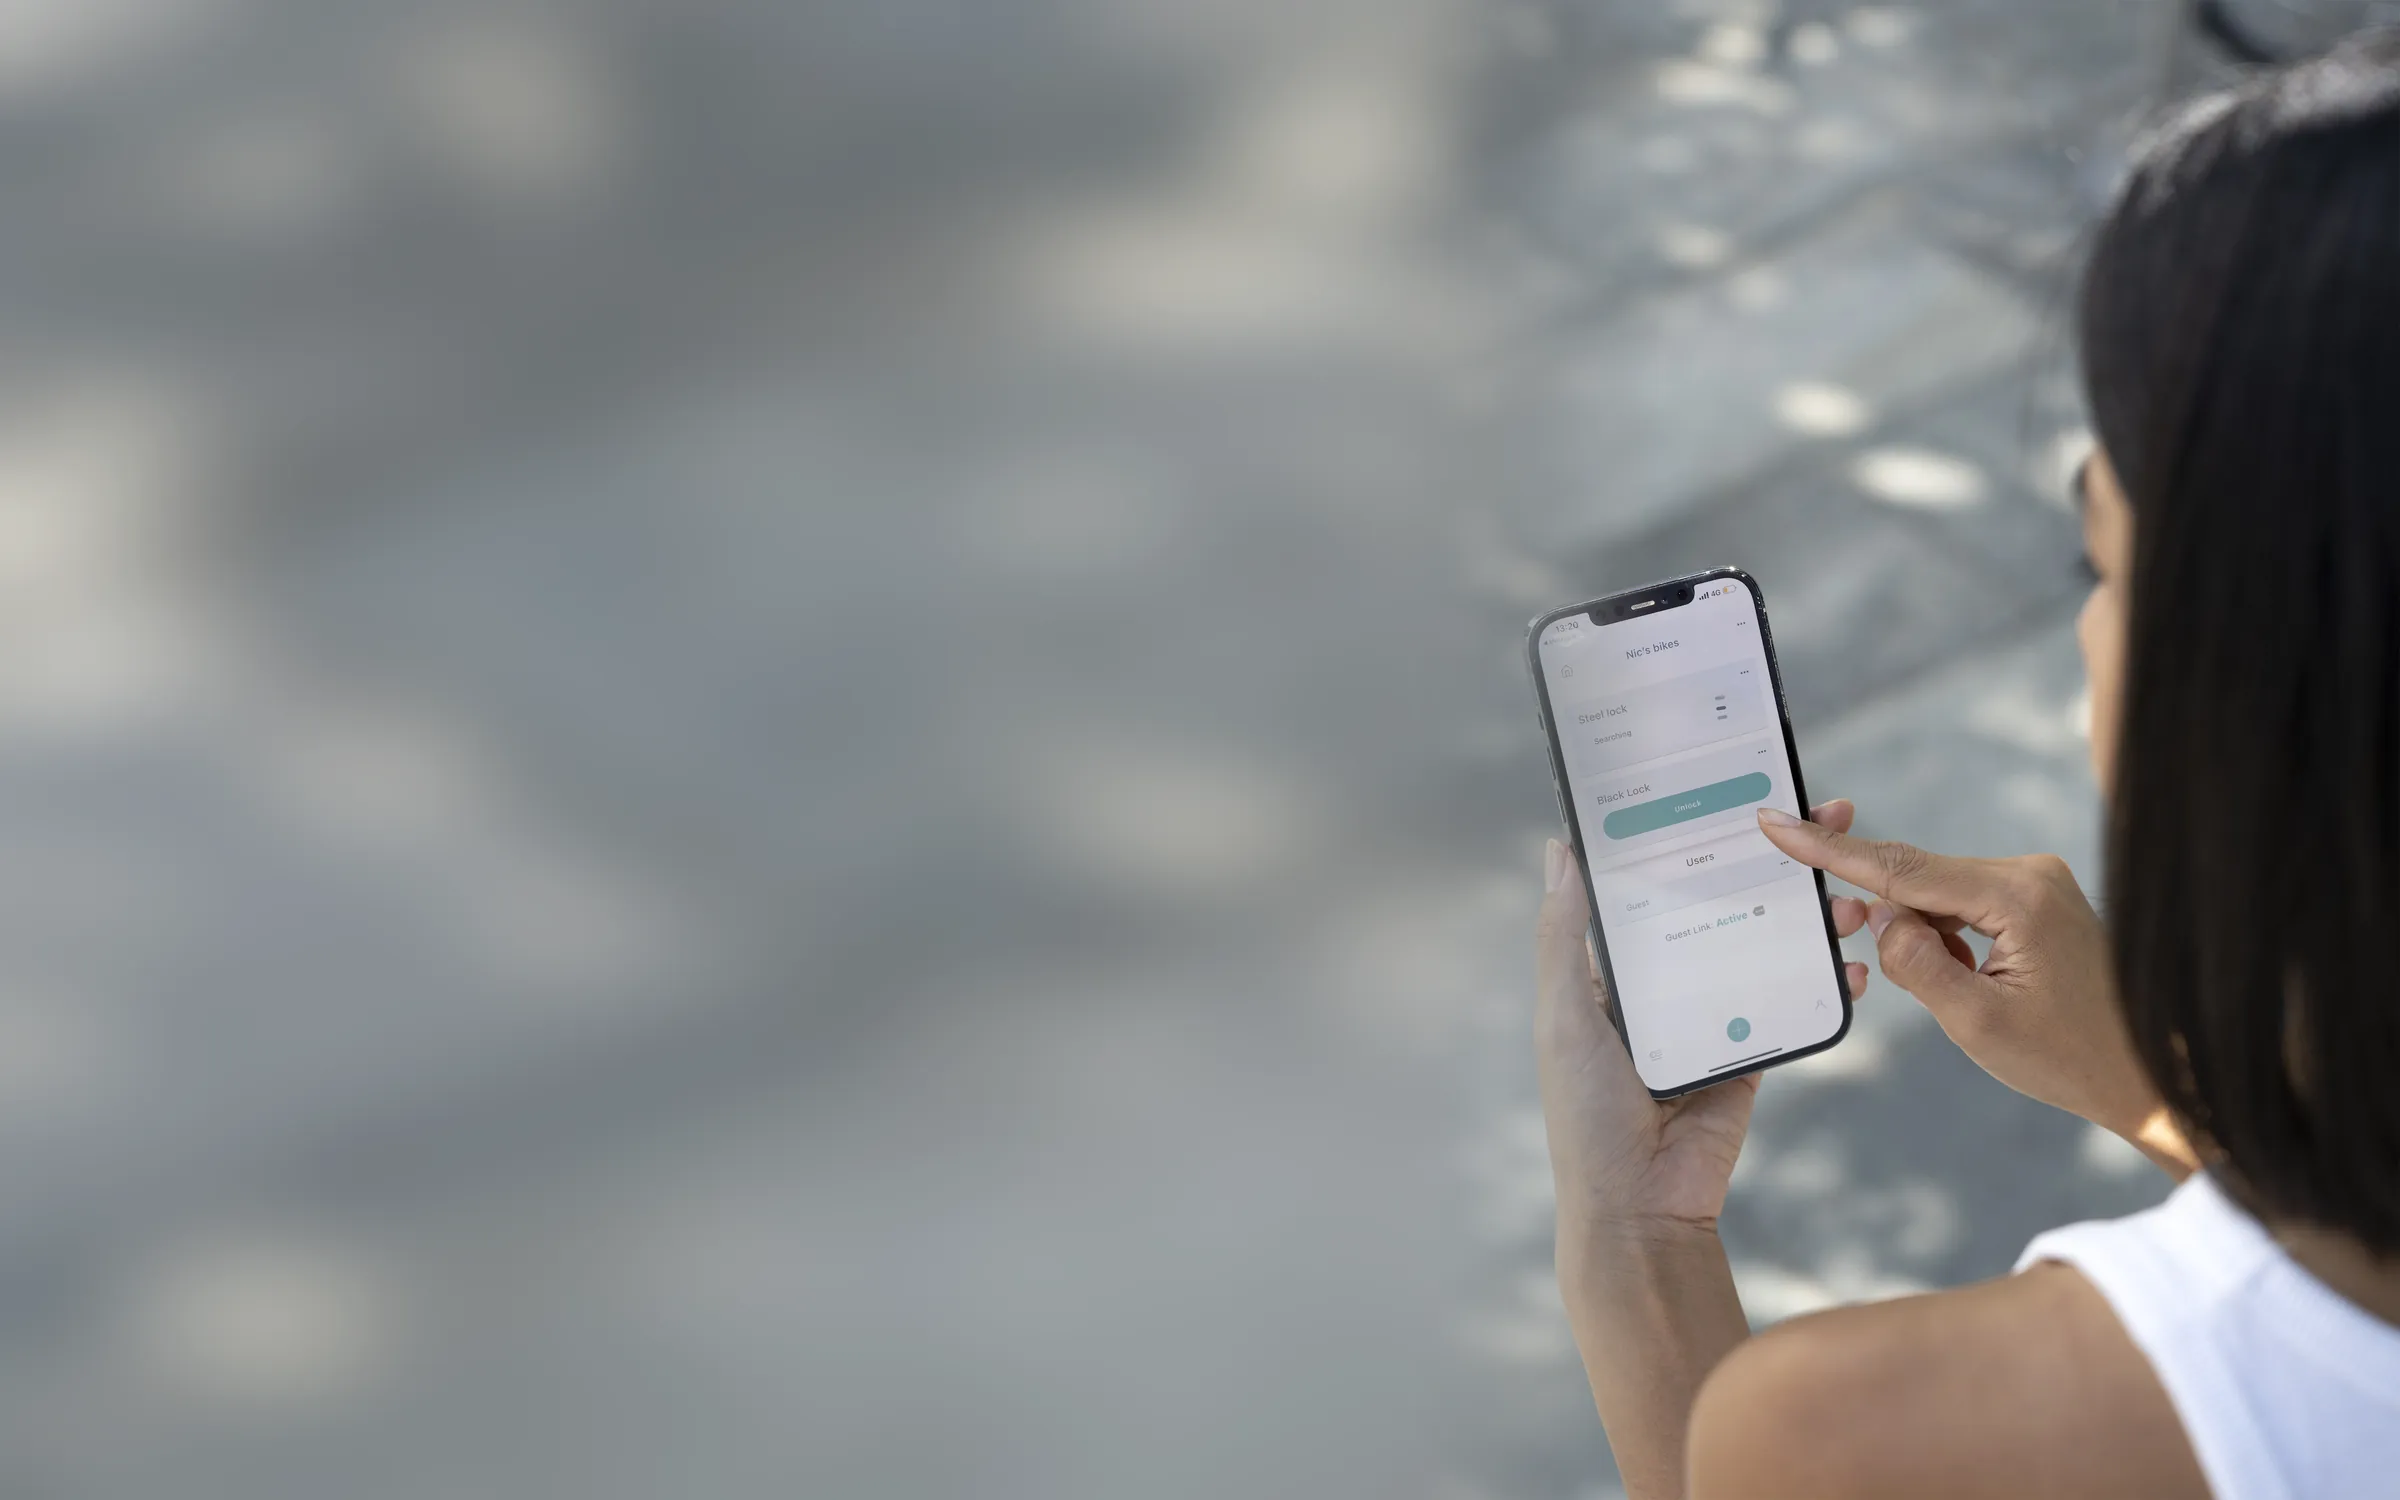
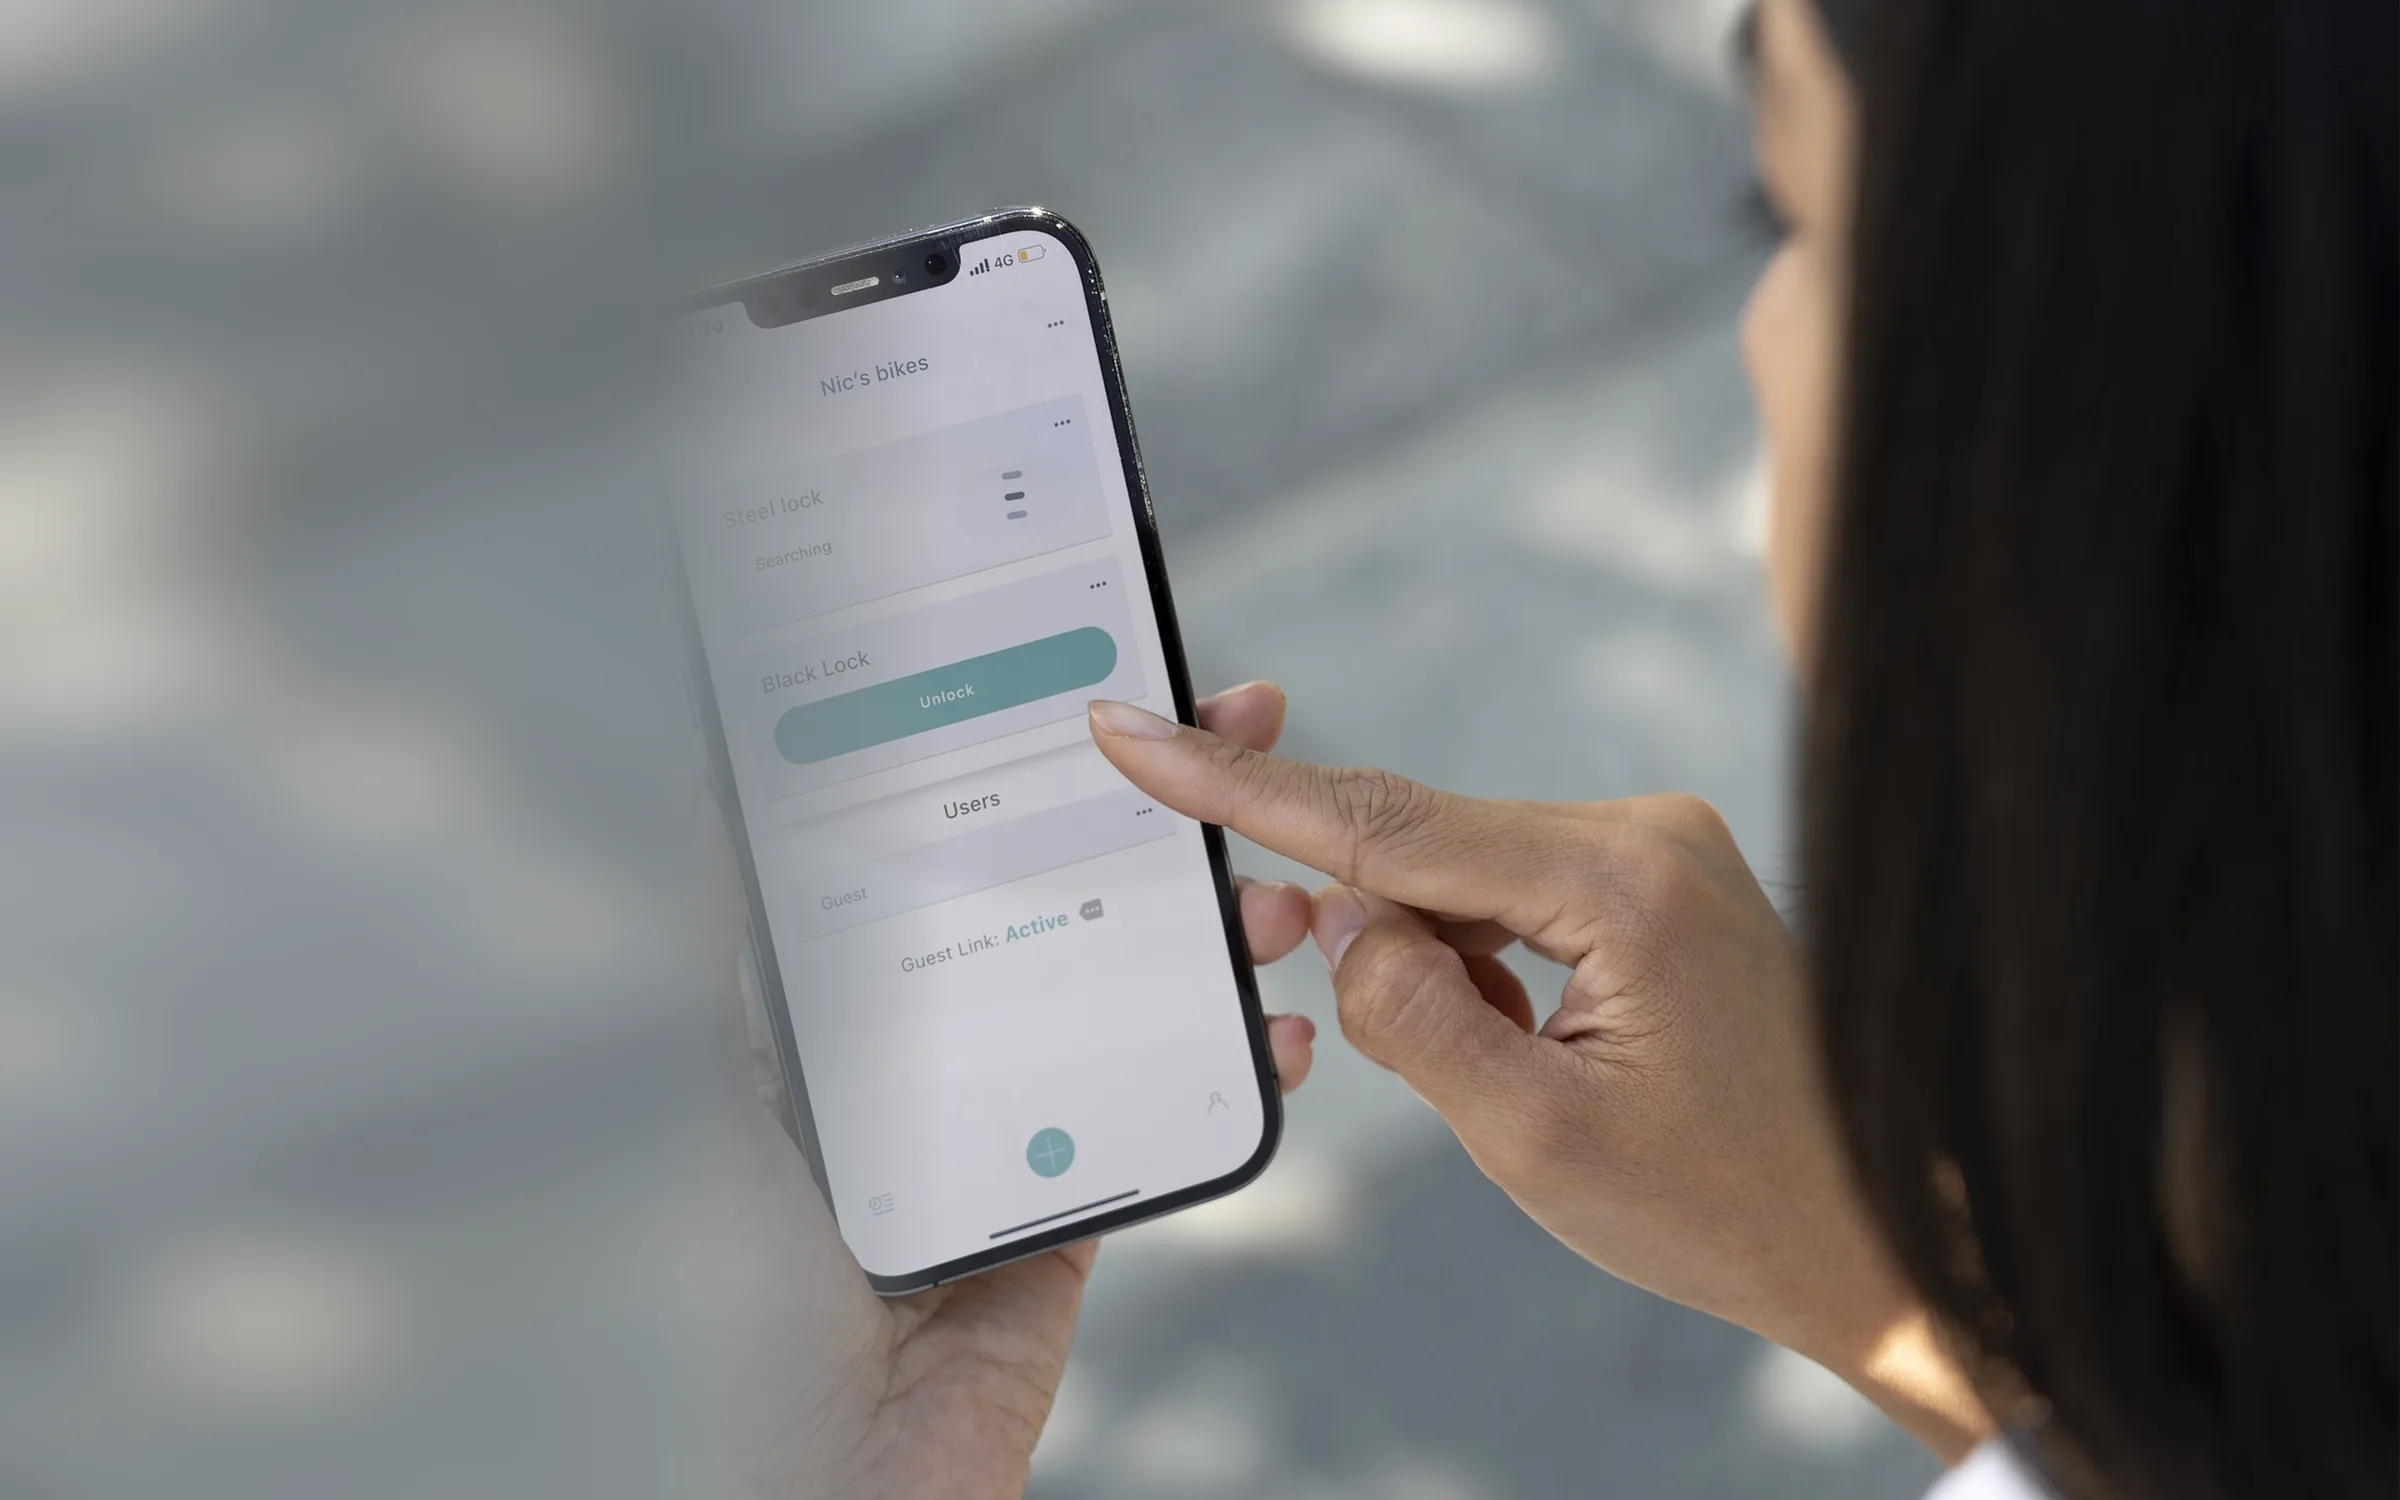
Story frame 2 shows the bike on a map on her iPhone (edited into the real backer photo), bigger phones on desktop, lighter shade

diff --git a/index.html b/index.html
@@ -22,7 +22,7 @@
 <link rel="preload" href="fonts/inter-400-600-latin.woff2" as="font" type="font/woff2" crossorigin>
 <link rel="preload" href="images/lock/steel-00-800.webp" as="image" type="image/webp" media="(max-width: 900px)">
 <link rel="preload" href="images/lock/steel-00-1600.webp" as="image" type="image/webp" media="(min-width: 901px)">
-<link rel="stylesheet" href="darkroom.css?v=1019c">
+<link rel="stylesheet" href="darkroom.css?v=1019g">
 <script>
   // the loader only exists when scripts run; if the 3D engine never arrives, the page still opens
   document.documentElement.classList.add('is-loading');
@@ -197,8 +197,8 @@
   <section class="tale" id="moved" data-nav-section="intro" data-tone="dark" data-bg="#202F30" data-key='{"hide":1}' aria-labelledby="h1c">
     <div class="tale__pin">
       <figure class="tale__shot is-on" data-i="0"><picture><source media="(max-width: 760px)" srcset="images/story/crowd-m.webp"><img src="images/story/crowd-wide.webp" alt="She looks around a park, trying to remember where she parked" decoding="async"></picture></figure>
-      <figure class="tale__shot" data-i="1"><picture><source media="(max-width: 760px)" srcset="images/story/found-m.webp"><img src="images/story/found-wide.webp" alt="She walks back to her light blue bike on a square" decoding="async"></picture></figure>
-      <figure class="tale__shot" data-i="2"><picture><source media="(max-width: 760px)" srcset="images/story/search-m.webp"><img src="images/story/search-wide.webp?v=2" alt="She taps Unlock in the LAAS app" decoding="async" loading="lazy"></picture></figure>
+      <figure class="tale__shot" data-i="1"><picture><source media="(max-width: 760px)" srcset="images/story/findmy-m.webp"><img src="images/story/findmy-wide.webp?v=3" alt="On her iPhone, a map shows where her bike is" decoding="async"></picture></figure>
+      <figure class="tale__shot" data-i="2"><picture><source media="(max-width: 760px)" srcset="images/story/search-m.webp"><img src="images/story/search-wide.webp?v=4" alt="She taps Unlock in the LAAS app" decoding="async" loading="lazy"></picture></figure>
       <figure class="tale__shot" data-i="3"><picture><source media="(max-width: 760px)" srcset="images/story/ride-m.webp"><img src="images/story/ride-wide.webp" alt="She rides away across the square" decoding="async" loading="lazy"></picture></figure>
       <div class="tale__copy">
         <p class="tale__index label"><span class="tale__count"><b>01</b> / 04</span> Ring-Lock</p>

diff --git a/darkroom.css b/darkroom.css
@@ -1980,7 +1980,7 @@ html[data-tone="dark"] .nav__bag b, html.in-tale .nav__bag b { background: #ECEC
 .tale__shot img { scale: 1.12; transition: scale calc(var(--tale-ms, 4200ms) * 1.6) cubic-bezier(.2, .6, .2, 1), opacity 1s; }
 .tale__shot.is-on img { scale: 1; }
 .tale__shot[data-i="0"] img { object-position: 60% 30%; }
-.tale__shot[data-i="1"] img { object-position: 50% 62%; }
+.tale__shot[data-i="1"] img { object-position: 85% 50%; }
 .tale__shot[data-i="2"] img { object-position: 85% 50%; }
 .tale__shot[data-i="3"] img { object-position: 50% 65%; }
 .tale__pin::after { background: linear-gradient(90deg, rgba(20, 32, 33, .82) 0%, rgba(20, 32, 33, .45) 38%, rgba(20, 32, 33, 0) 66%), linear-gradient(0deg, rgba(20, 32, 33, .7) 0%, rgba(20, 32, 33, 0) 42%); }
@@ -2011,3 +2011,4 @@ html[data-tone="dark"] .nav__bag b, html.in-tale .nav__bag b { background: #ECEC
   .tale__shot[data-i="2"] img { object-position: 60% 30% !important; }
 }
 @media (min-width: 761px) and (max-width: 1100px) and (max-aspect-ratio: 1/1) { .tale__copy { width: auto; right: var(--gutter); } .tale__line { font-size: clamp(54px, 9vw, 84px); } }
+@media (min-width: 1101px) { .tale__pin::after { background: linear-gradient(90deg, rgba(20, 32, 33, .72) 0%, rgba(20, 32, 33, .3) 30%, rgba(20, 32, 33, 0) 46%), linear-gradient(0deg, rgba(20, 32, 33, .55) 0%, rgba(20, 32, 33, 0) 32%); } .tale__copy { width: min(620px, 36vw); } .tale__line { font-size: clamp(52px, 6vw, 112px); } }
